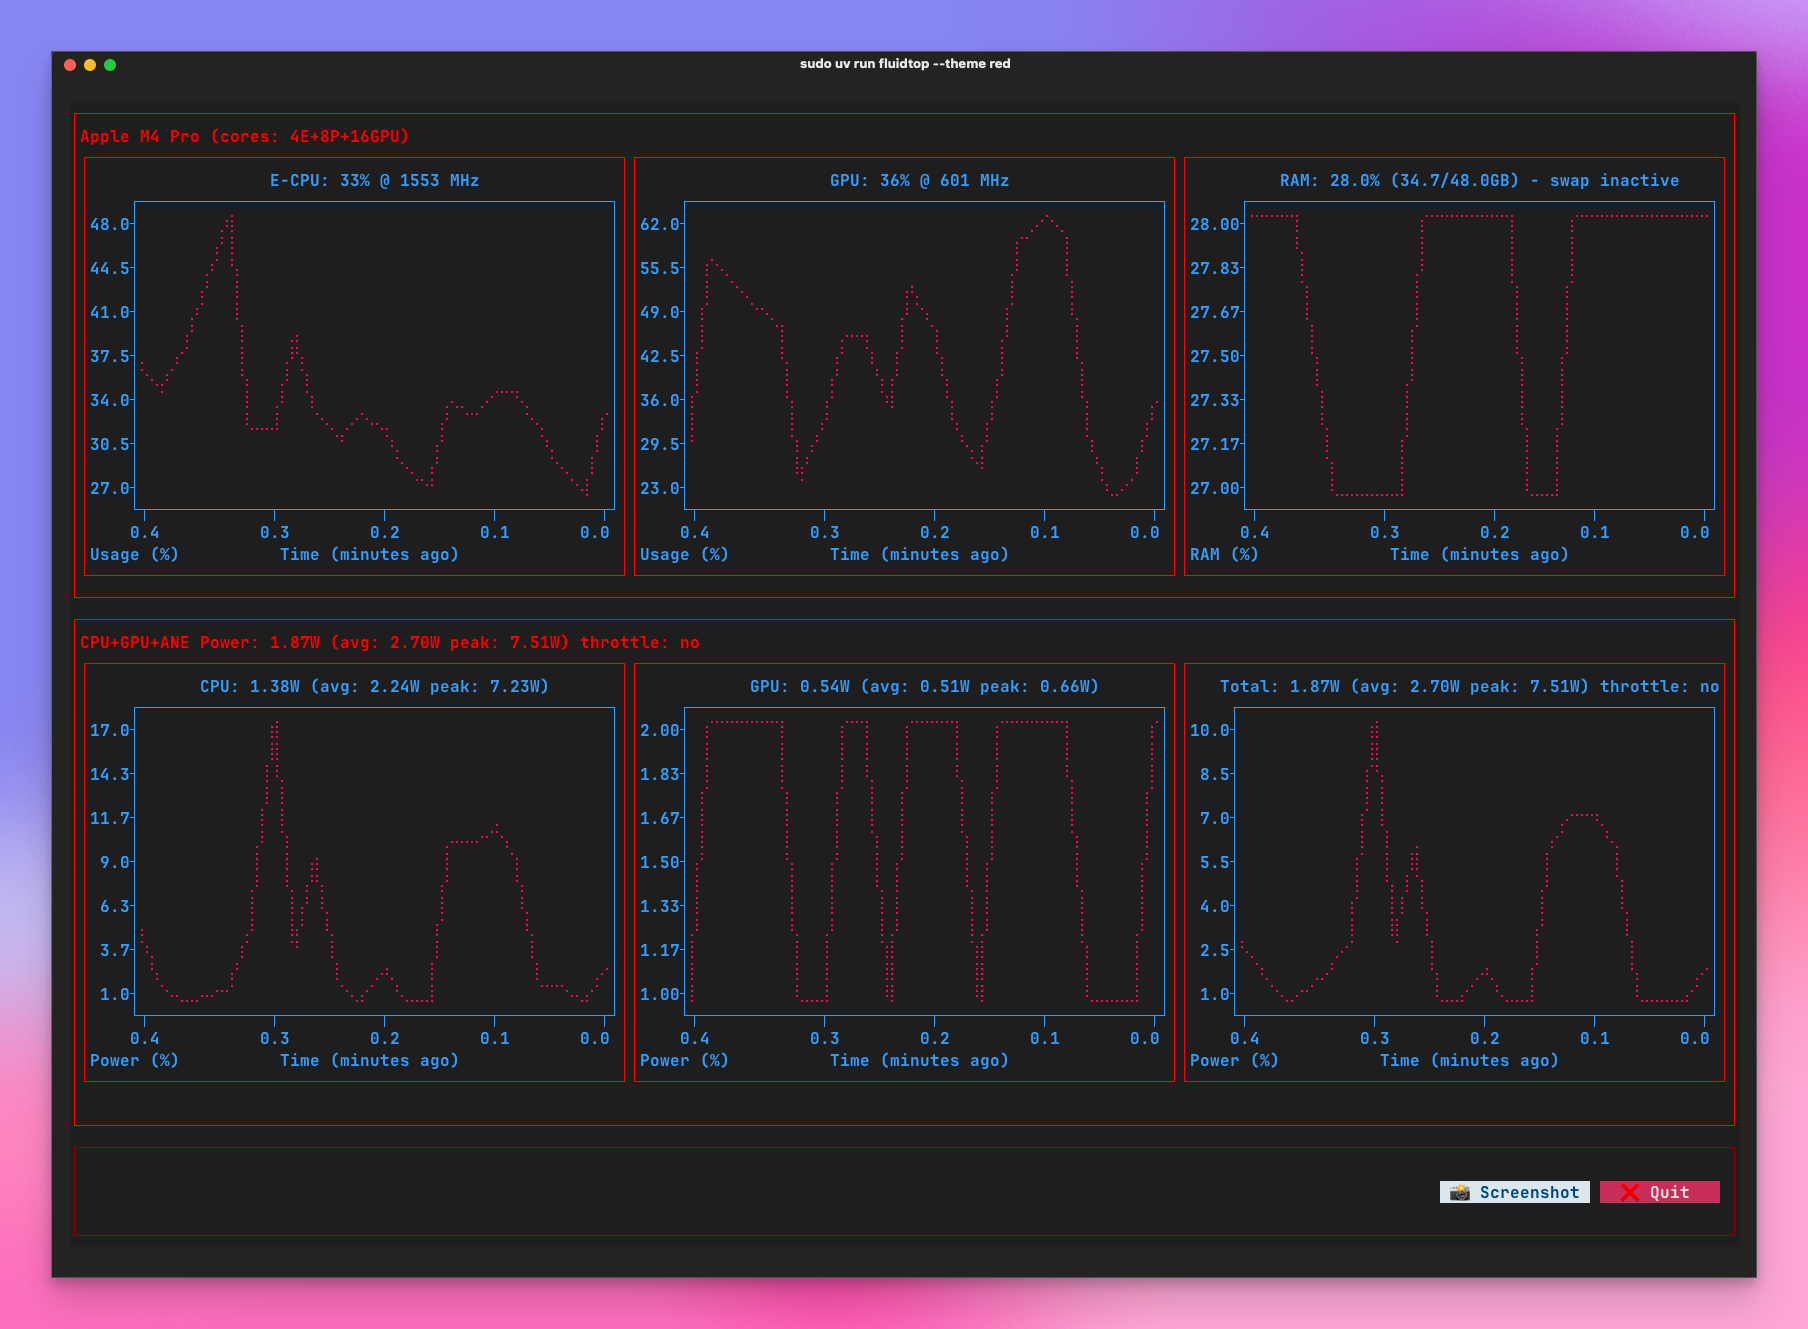
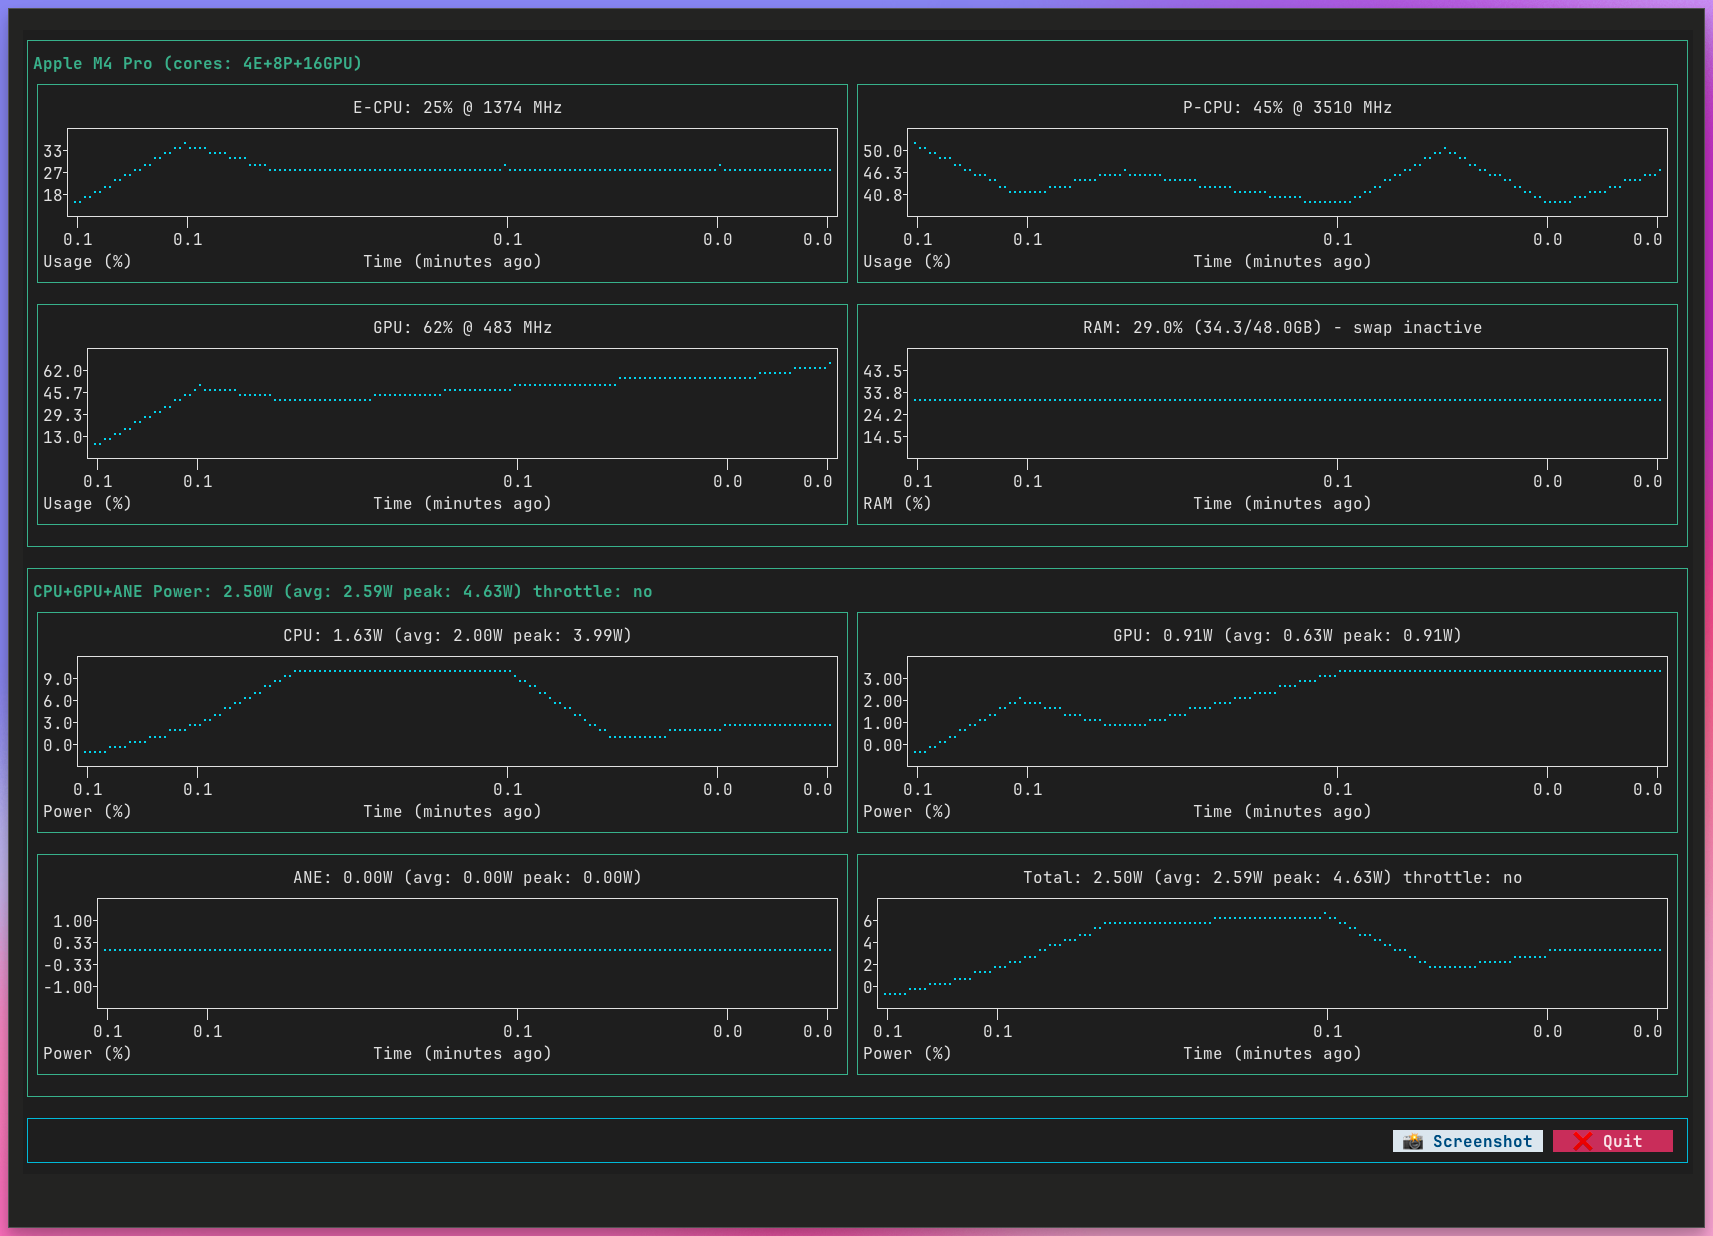
update demo videos

diff --git a/fluidtop/fluidtop.py b/fluidtop/fluidtop.py
@@ -260,14 +260,14 @@ class FluidTopApp(App):
     #power-section {{
         border: solid {colors['primary']};
         padding: 0;
-        height: 1fr;
+        height: 2fr;
         background: $surface;
     }}
     
     #controls-section {{
         border: solid {colors['accent']};
         padding: 0;
-        height: 5;
+        height: 3;
         background: $surface;
     }}
     
@@ -305,9 +305,8 @@ class FluidTopApp(App):
             with Horizontal():
                 yield UsageChart("E-CPU Usage", interval=self.interval, color=self.theme_colors, id="e-cpu-usage-chart")
                 yield UsageChart("P-CPU Usage", interval=self.interval, color=self.theme_colors, id="p-cpu-usage-chart")
-                yield UsageChart("GPU Usage", interval=self.interval, color=self.theme_colors, id="gpu-usage-chart")
             with Horizontal():
-                yield UsageChart("ANE Usage", ylabel="ANE (%)", interval=self.interval, color=self.theme_colors, id="ane-usage-chart")
+                yield UsageChart("GPU Usage", interval=self.interval, color=self.theme_colors, id="gpu-usage-chart")
                 yield UsageChart("RAM Usage", ylabel="RAM (%)", interval=self.interval, color=self.theme_colors, id="ram-usage-chart")
         
         # Power section
@@ -316,6 +315,7 @@ class FluidTopApp(App):
             with Horizontal():
                 yield PowerChart("CPU Power", interval=self.interval, color=self.theme_colors, id="cpu-power-chart")
                 yield PowerChart("GPU Power", interval=self.interval, color=self.theme_colors, id="gpu-power-chart")
+            with Horizontal():
                 yield PowerChart("ANE Power", interval=self.interval, color=self.theme_colors, id="ane-power-chart")
                 yield PowerChart("Total Power", interval=self.interval, color=self.theme_colors, id="total-power-chart")
         
@@ -416,15 +416,6 @@ class FluidTopApp(App):
         gpu_title = f"GPU: {gpu_usage}% @ {gpu_freq} MHz"
         gpu_chart.update_title(gpu_title)
         gpu_chart.add_data(gpu_usage)
-        
-        # Update ANE usage chart (based on power consumption as proxy for utilization)
-        ane_chart = self.query_one("#ane-usage-chart", UsageChart)
-        ane_power_W = cpu_metrics_dict["ane_W"] / self.interval
-        ane_max_power = 8.0  # Max ANE power
-        ane_usage_percent = min((ane_power_W / ane_max_power) * 100, 100)  # Convert power to percentage, cap at 100%
-        ane_title = f"ANE: {ane_usage_percent:.1f}% ({ane_power_W:.2f}W)"
-        ane_chart.update_title(ane_title)
-        ane_chart.add_data(ane_usage_percent)
         
         # Update RAM usage chart with swap information
         ram_metrics_dict = get_ram_metrics_dict()

diff --git a/README.md b/README.md
@@ -4,7 +4,7 @@ MacOS hardware performance monitoring CLI tool with a focus on AI Workloads
 
 ## What is `fluidtop`
 
-A Python-based `nvtop`-inspired command line tool for Apple Silicon Macs (M1, M2, M3, M4+). This is an enhanced and actively maintained fork of the original [asitop](https://github.com/tlkh/asitop) project, with additional features and support for newer hardware. The original MIT license and commit history is preserved. 
+A Python-based `nvtop`-inspired command line tool for Apple Silicon Macs (M1, M2, M3, M4+). This is an enhanced and actively maintained fork of the original [asitop](https://github.com/tlkh/asitop) project, with additional features and support for newer hardware. The original MIT license and commit history are preserved. Why did we fork the original repo? It's a great tool, but it lacks maintenance. Not supporting Ghostty was an annoying enough problem to justify the fork, and we also wanted to see more temporal metrics.
 
 ![View animated demo (GIF)](images/live.gif)
 
